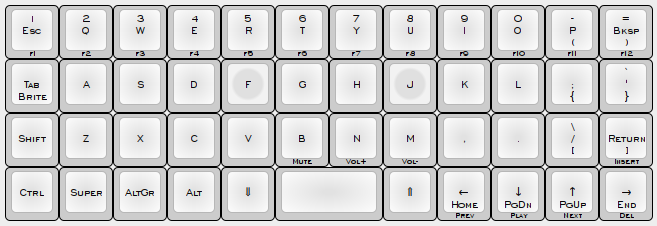
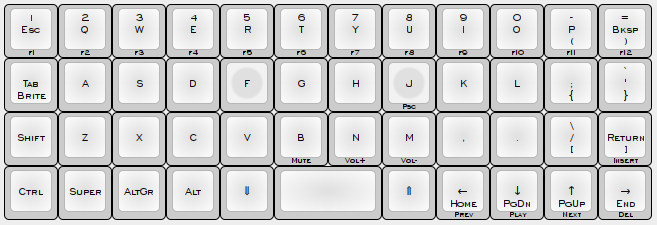
- Added PrintScreen key on multimedia layer

Changed region(s): [[0.0, 0.0, 1.0, 0.9956]]

diff --git a/keyboards/planck/keymaps/dbroqua/keymap.c b/keyboards/planck/keymaps/dbroqua/keymap.c
@@ -99,7 +99,7 @@ const uint16_t PROGMEM keymaps[][MATRIX_ROWS][MATRIX_COLS] = {
  * ,-----------------------------------------------------------------------------------.
  * |  F1  |  F2  |  F3  |  F4  |  F5  |  F6  |  F7  |  F8  |  F9  | F10  | F11  | F12  |
  * |------+------+------+------+------+------+------+------+------+------+------+------|
- * |      |      |      |      |      |      |      |      |      |      |      |      |
+ * |      |      |      |      |      |      |      |  Psc |      |      |      |      |
  * |------+------+------+------+------+------+------+------+------+------+------+------|
  * |      |      |      |      |      | Mute | Vol+ | Vol- |      |      |      |Insert|
  * |------+------+------+------+------+------+------+------+------+------+------+------|
@@ -108,7 +108,7 @@ const uint16_t PROGMEM keymaps[][MATRIX_ROWS][MATRIX_COLS] = {
  */
 [_MULTIMEDIA] = {
   {KC_F1,   KC_F2,      KC_F3,      KC_F4,      KC_F5,      KC_F6,      KC_F7,      KC_F8,      KC_F9,      KC_F10,     KC_F11,     KC_F12},
-  {_______, _______,    _______,    _______,    _______,    _______,    _______,    _______,    _______,    _______,    _______,    _______},
+  {_______, _______,    _______,    _______,    _______,    _______,    _______,    KC_PSCR,    _______,    _______,    _______,    _______},
   {_______, _______,    _______,    _______,    _______,    KC_MUTE,    KC_VOLU,    KC_VOLD,    _______,    _______,    _______,    KC_INS},
   {_______, _______,    _______,    _______,    _______,    _______,    _______,    _______,    KC_MPRV,    KC_MPLY,    KC_MNXT,    KC_DEL}
 },
